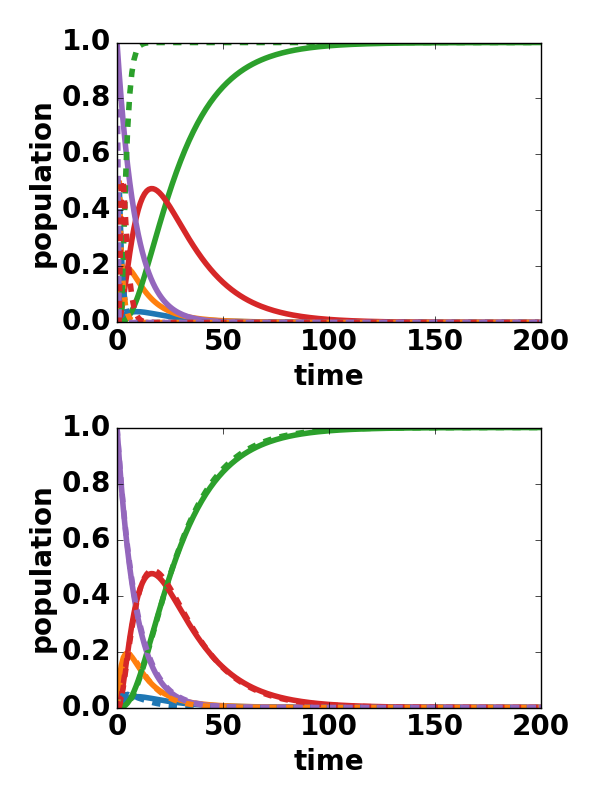
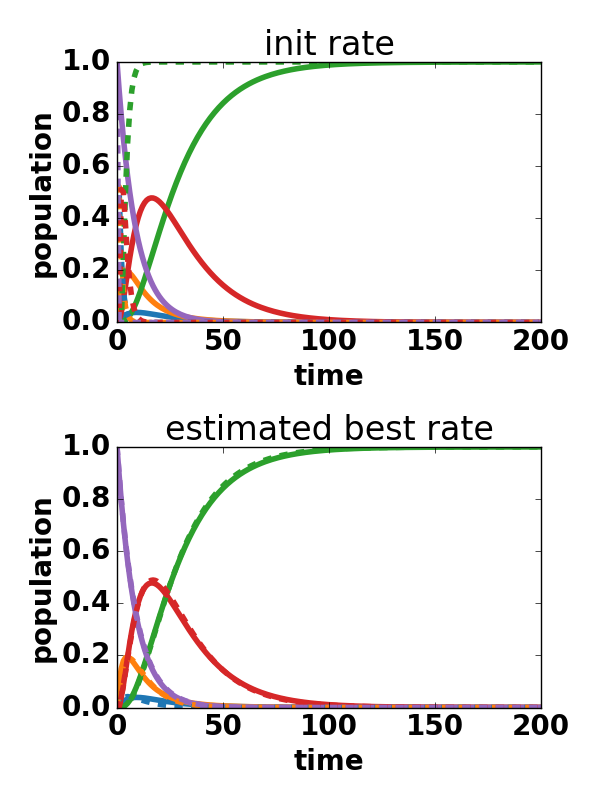
plot modify

diff --git a/rate-estimate/test-5state.py b/rate-estimate/test-5state.py
@@ -34,8 +34,8 @@ def main():
     paras = Parameters(T, rateInit, lagtime, p0, maxTime)
 
     epsilon = 1e-10
-    learningRatio = 0.01
-    iterN = 500
+    learningRatio = 0.005
+    iterN = 1000
     lossValues, weightsList, rateBest = gradient_descent(paras, iterN=iterN, epsilon=epsilon, learningRatio=learningRatio)
 
     populationRef = gain_population_from_transition_matrix(T, p0, lagtime, maxTime)
@@ -49,8 +49,10 @@ def main():
     times = np.arange(0, maxTime, lagtime)
     _, ax = plot_compare(times, populationRef, populationInit, ax=axs[0])
     ax.set_ylim(0,1)
+    ax.set_title('init rate')
     _, ax = plot_compare(times, populationRef, populationBest, ax=axs[1])
     ax.set_ylim(0,1)
+    ax.set_title('estimated best rate')
 
     fig.tight_layout()
     fig.savefig('evolution.png', dpi=100)
